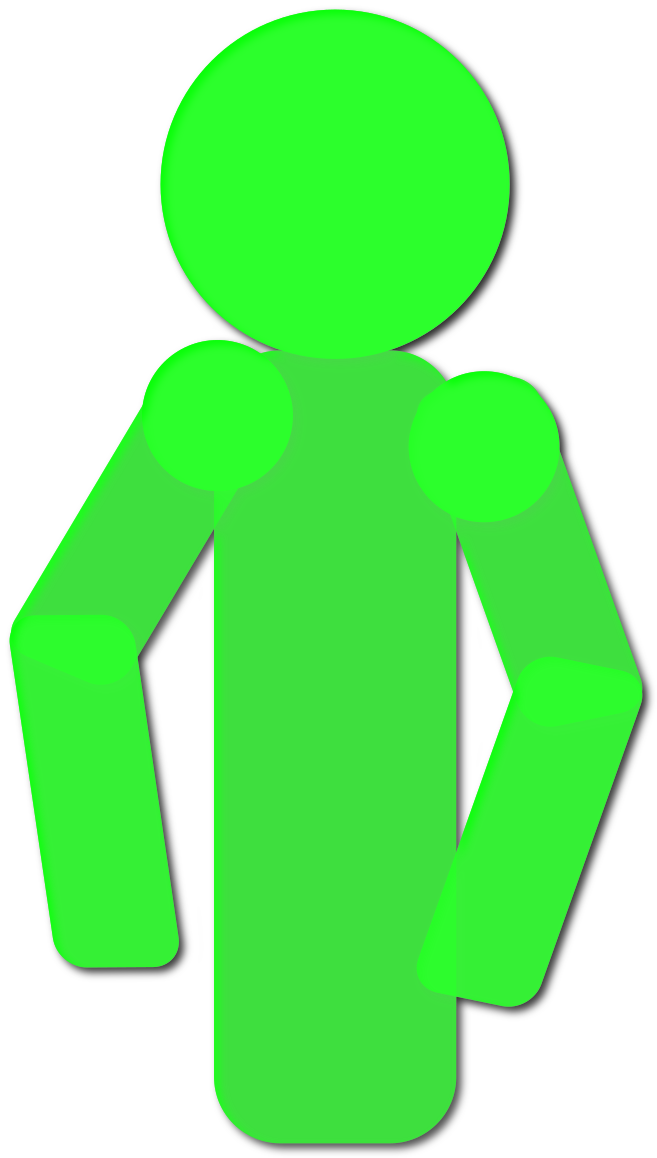
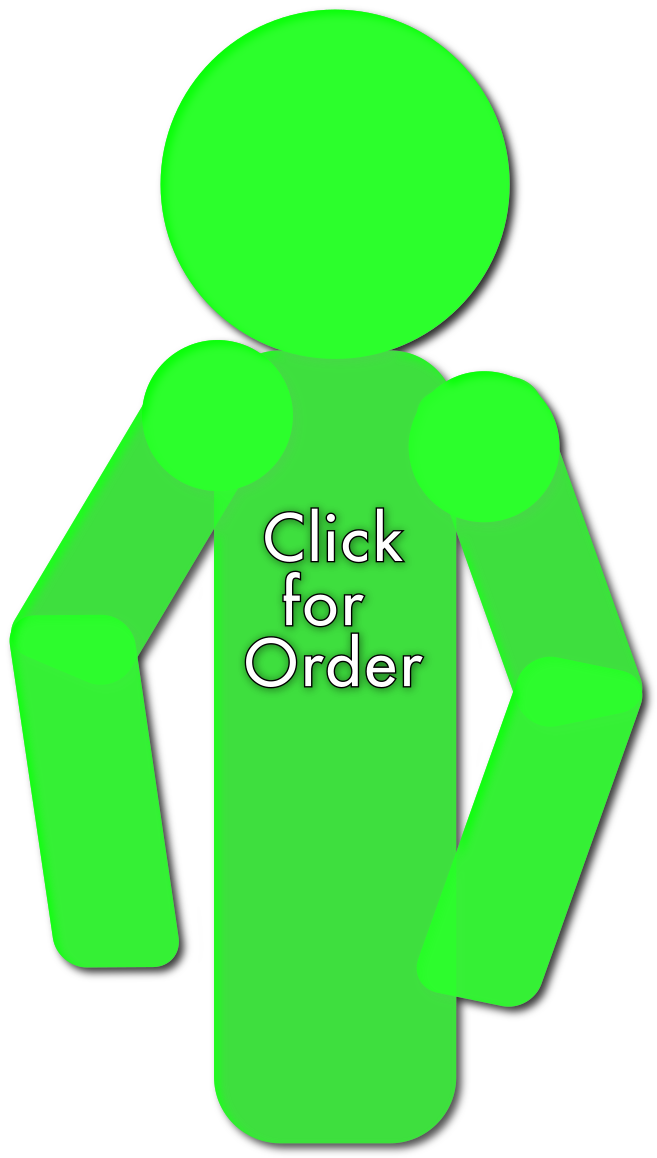
minor functionalities and interface additions and tweeks

Changed region(s): [[0.3653, 0.4352, 0.6393, 0.6218]]

diff --git a/assets/Logic.js b/assets/Logic.js
@@ -30,8 +30,9 @@
 ****************************/
 document.addEventListener('DOMContentLoaded', function () {
   //let breadToggle =
-  let currentSliceObj
+  let currentSlcObj
   let frameArray =[]
+  const orderModalDiv = document.getElementById('orderModal')
     function eventElements(element){
     
         switch(element){
@@ -45,7 +46,7 @@ document.addEventListener('DOMContentLoaded', function () {
             break;
             case 'sliceButtonImg': 
             //needs to change to every sandwich with its index having matching content 
-                // tempCue.forEach(slice(currentSliceObj))
+                // tempCue.forEach(slice(currentSlcObj))
                 slice()
             break;
             // case 'provolone': 
@@ -56,10 +57,13 @@ document.addEventListener('DOMContentLoaded', function () {
         element = e.target
 
         if (element.classList.contains('fridgeButton')){
-            element.style.boxShadow= "white"
+            // if (element != currentSlcObj){
+                // element.style.setProperty("-webkit-filter", "drop-shadow(0px 0px 0px #000)")
+            // }else{
+                element.style.setProperty("-webkit-filter", "drop-shadow(5px 5px 5px #222)")//}
             let id = element.id.split('B')
             let button = id[0]
-            currentSliceObj = button
+            currentSlcObj = button
             eventElements(button)
             console.log (`###### Fridge Selection: ${button} ######`)
         }else{eventElements(element.id)} 
@@ -231,7 +235,7 @@ const contentDivs = {
  * element passes frame
 ****************************/
     class Sandwich{
-        constructor(type,slcIndex,frameId,element){
+        constructor(type,slcIndex,frameId){
             let url = `./assets/Sandwiches/${type}.html`//Figure out var it needs
             this.type = type
             this.content = menuConstruct[type]
@@ -290,6 +294,17 @@ const contentDivs = {
             })  
         }
 /**************************** 
+ *  +Slice Inedx Increminter
+ * ------------------------------------
+ *    
+****************************/
+        function slcIndexInc(SandwichObjArray,sliced){
+
+            SandwichObjArray.forEach(sandwich=>{
+                sandwich.slcIndex++
+            })
+        }
+/**************************** 
  *  +Generates and returns randomly selected sandwich order
  * ------------------------------------
  *    
@@ -305,7 +320,7 @@ const contentDivs = {
                     // order[i] = menuConstruct.get(sandwichNum)
                     order[i] = Object.keys(menuConstruct)[sandwichNum]
                     
-                    let sandwich = new Sandwich(order[i],0,tempCue.indexOf,element)
+                    let sandwich = new Sandwich(order[i],0,tempCue.indexOf)//,element)
                     console.log(`---[generating ${sandwich.type} object]---`)
                     tempCue.push(sandwich)
                     generateSandwichCue(tempCue)
@@ -357,6 +372,7 @@ const contentDivs = {
                 pushToCue(newCustomer.order,masterSandwichCue)
                 
                 pushToCue(newCustomer.order,tempCue)
+               
                 // slice(newCustomer.order)
             }else{
                 linePosition ++
@@ -366,6 +382,28 @@ const contentDivs = {
             //newCustomer.order.forEach(e => masterSandwichCue.push)
             //Push each order item to the master cue
             // console.log(
+            // orderModalDiv.textContent =`Current Order: ${newCustomer.order}`
+            lh =`<u>Current Order:</u>`
+            orderModalDiv.style.display = "inline"
+            let htmlList= ''
+            newCustomer.order.forEach(sandwich=>{
+               htmlList += (`<li>${sandwich}</li>`)
+            //    console.log(htmlList) 
+            })
+            htmlList = `
+            <h4>${lh}</h4>
+            <ul>${htmlList}</ul>
+            `
+
+            orderModalDiv.innerHTML = htmlList
+            document.getElementById('timeText').style.justifyContent="center"
+            document.getElementById('orderModal').style.display="inline"
+            document.getElementById('orderModal').style.flexDirection="column"
+            document.getElementById('orderModal').style.position="absolute"
+            document.getElementById('orderModal').style.top="0px"
+            document.getElementById('orderModal').style.left="140px"
+            // console.log(orderModalDiv.textContent)
+
             pushToCue(newCustomer.order,masterSandwichCue)
                 // )
             // console.log(`Master Cue Length: ${masterSandwichCue}`)
@@ -385,11 +423,11 @@ const contentDivs = {
            
             // return
         }
-    async function getId(id){
-        const currentSlice = await document.getElementById('provoloneSlice1')
-        currentSlice.style.visibility ='visible'
-        return currentSlice
-    }
+    // async function getId(id){
+    //     const currentSlice = await document.getElementById('provoloneSlice1')
+    //     currentSlice.style.visibility ='visible'
+    //     return currentSlice
+    // }
     async function layerSlice(objs){
         // let currentSlice
         // var iframe = document.getElementById('iframeId');
@@ -426,6 +464,7 @@ const contentDivs = {
                 // console.log(slice)
         })
             await Promise.all(promises)
+            
         }
 /**************************** 
  *  +Slice
@@ -438,7 +477,7 @@ const contentDivs = {
                 currentFrame.src  = url
 ****************************/
         async function slice(){
-            // let divIds = contentDivs[currentSliceObj]
+            // let divIds = contentDivs[currentSlcObj]
             // console.log(divIds)
             let divArray 
             tempCue.forEach(sandwich=>{
@@ -448,28 +487,31 @@ const contentDivs = {
                     let layerFixins =  Object.keys(layer)[currentSlcIndex]
                     console.log(`layer Fixins:`)
                     console.log(layerFixins)
-                    // layerFixins = 
+                    
                     console.log(`Intial Slice Index: ${currentSlcIndex}`)
-                    if(layerFixins == currentSliceObj){
+                    if(layerFixins == currentSlcObj){
                         
-                        console.log(`Totally able to slice [${layerFixins}] with [${currentSliceObj}]!`)
+                        console.log(`Totally able to slice [${layerFixins}] with [${currentSlcObj}]!`)
                         // layer.forEach(slice=>{
                         console.log(`Activating: ${layerFixins}`)
                         tempCue.forEach(sandwich=>{
                             //Need to send sandwich
-                            console.log('Hopefully the div array:')
+                            console.log(`Hopefully the div array at the [${sandwich.slcIndex}] index`)
                             divArray = Object.values(sandwich.content[sandwich.slcIndex])
-                            
                             console.log(divArray)
-                            // if(sandwich.content[sandwich.slcIndex]){
-                                layerSlice(divArray)//,currentSlcIndex)
+                            console.log(sandwich.content[sandwich.slcIndex])
+                            // if(sandwich.content[sandwich.slcIndex] == currentSlcObj){
+                            layerSlice(divArray)//,currentSlcIndex)
+                                
                             // }
+
                         })
+                        slcIndexInc(tempCue)
                         /******************** */
                         
                         // })
                         
-                    }else{console.log(`NOT able to slice! [${layerFixins}] with [${currentSliceObj}]`)}
+                    }else{console.log(`NOT able to slice! [${layerFixins}] with [${currentSlcObj}]`)}
                     
                     console.log(`New Slice Index: ${this.slcIndex}`)
                 })

diff --git a/assets/style.css b/assets/style.css
@@ -149,6 +149,13 @@ h1{
     right: 7px;
     /* visibility: hidden; */
 }
+#timeText{
+    display: inline-flex;
+    position: absolute;
+    top: 19px;
+    right: 72px;
+    text-align: center;
+}
 #emptyFridgeImg{
     width: 100%; 
     height: auto;
@@ -339,6 +346,36 @@ h1{
     width: 100%; 
     height: auto;
 }
+@keyframes customerMovementDefault {
+    0%  {left:0px; top:0px;}
+  25%  {left:10px; top:0px;}
+  50%  {left:10px; top:31px;}
+  75%  {left:0px; top:31px;}
+  100% {left:0px; top:0px;}
+  }
+/* @keyframes customerMovementDefault {
+    0%   {background-color:red; left:0px; top:0px;}
+  25%  {background-color:yellow; left:10px; top:0px;}
+  50%  {background-color:blue; left:10px; top:31px;}
+  75%  {background-color:green; left:0px; top:31px;}
+  100% {background-color:red; left:0px; top:0px;}
+  } */
+/* section {
+    justify-content: center;
+} */
+#customerOrderDiv{
+    display: inline-flex;
+    position: absolute;
+    /* width: 100%;
+    height: 100%; */
+    top: 31px;
+    left: 0px;
+    border-radius: 25%;
+    width: 254px;
+    height: auto;
+    z-index: 5;
+}
+
 #customer {
     display: inline-flex;
     position: absolute;
@@ -347,6 +384,40 @@ h1{
     z-index: 1;
     width: 254px;
     height: auto;
+    
+}
+#customerOrderDiv:hover {
+    animation-name: customerMovementDefault;
+    animation-duration: 2s;
+}
+#orderModal h4{
+    margin: auto;
+    padding-top: 0px;
+}
+#orderModal{
+    display: none ;
+    flex-direction: column;
+    position: relative;
+    z-index: 100;
+    top: 3px;
+    left: 115px;
+    border: 2px dotted blue;
+    background-color: black;
+    color: white;
+    opacity: 0.5;
+    border-radius: 25%;
+    width: 170px;
+    height: 160px;
+    overflow-wrap: break-word;
+    justify-content: center;
+    align-content: center;
+    margin: auto; 
+}
+#orderModal ul{
+    list-style: none;
+    align-content: center;
+    margin: auto;
+    justify-content: center;
 }
 #bg {
     position: relative;

diff --git a/index.html b/index.html
@@ -24,8 +24,10 @@
                 <div id="bg">
                     <img src="./assets/images/BGImage.png" alt="shop background" id="bgImg">
                 </div>
-                <div >
+                <div id="customerOrderDiv" >
+                    
                     <div id='orderModal'></div>
+                    
                     <img src="./assets/images/Customer.png" alt="Customer" id="customer">
                 
                 </div>
@@ -83,6 +85,7 @@
                     <img src="./assets/images/FridgeEmpty.png" alt="Fridge Image" id="emptyFridgeImg">
                 </div>
                 <div id="timeModal">
+                    <div id ="timeText"><h3>00:00:00</h3></div>
                     <img src="./assets/images/EmptyTimeBox.png" alt="Time Box" id="timeModalImg">
                 </div>
                 <div id="shiftDuration">
